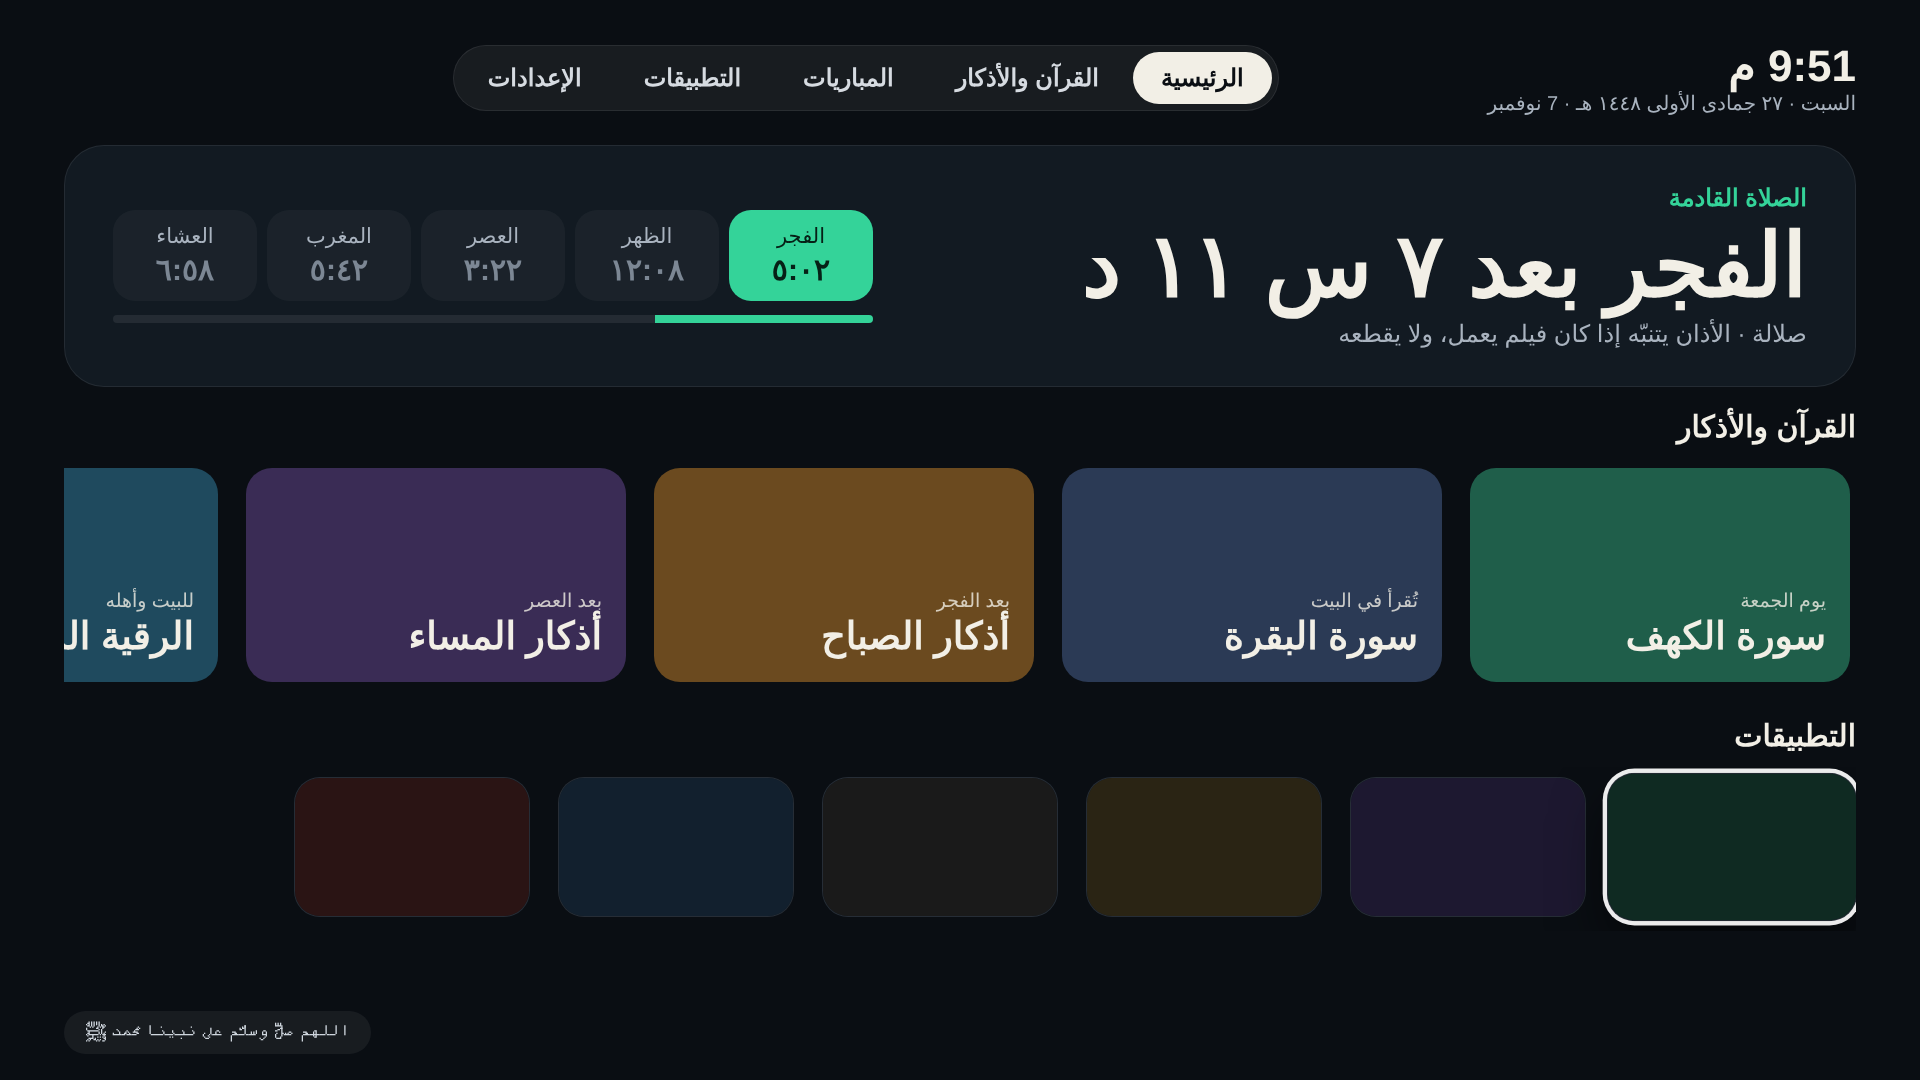
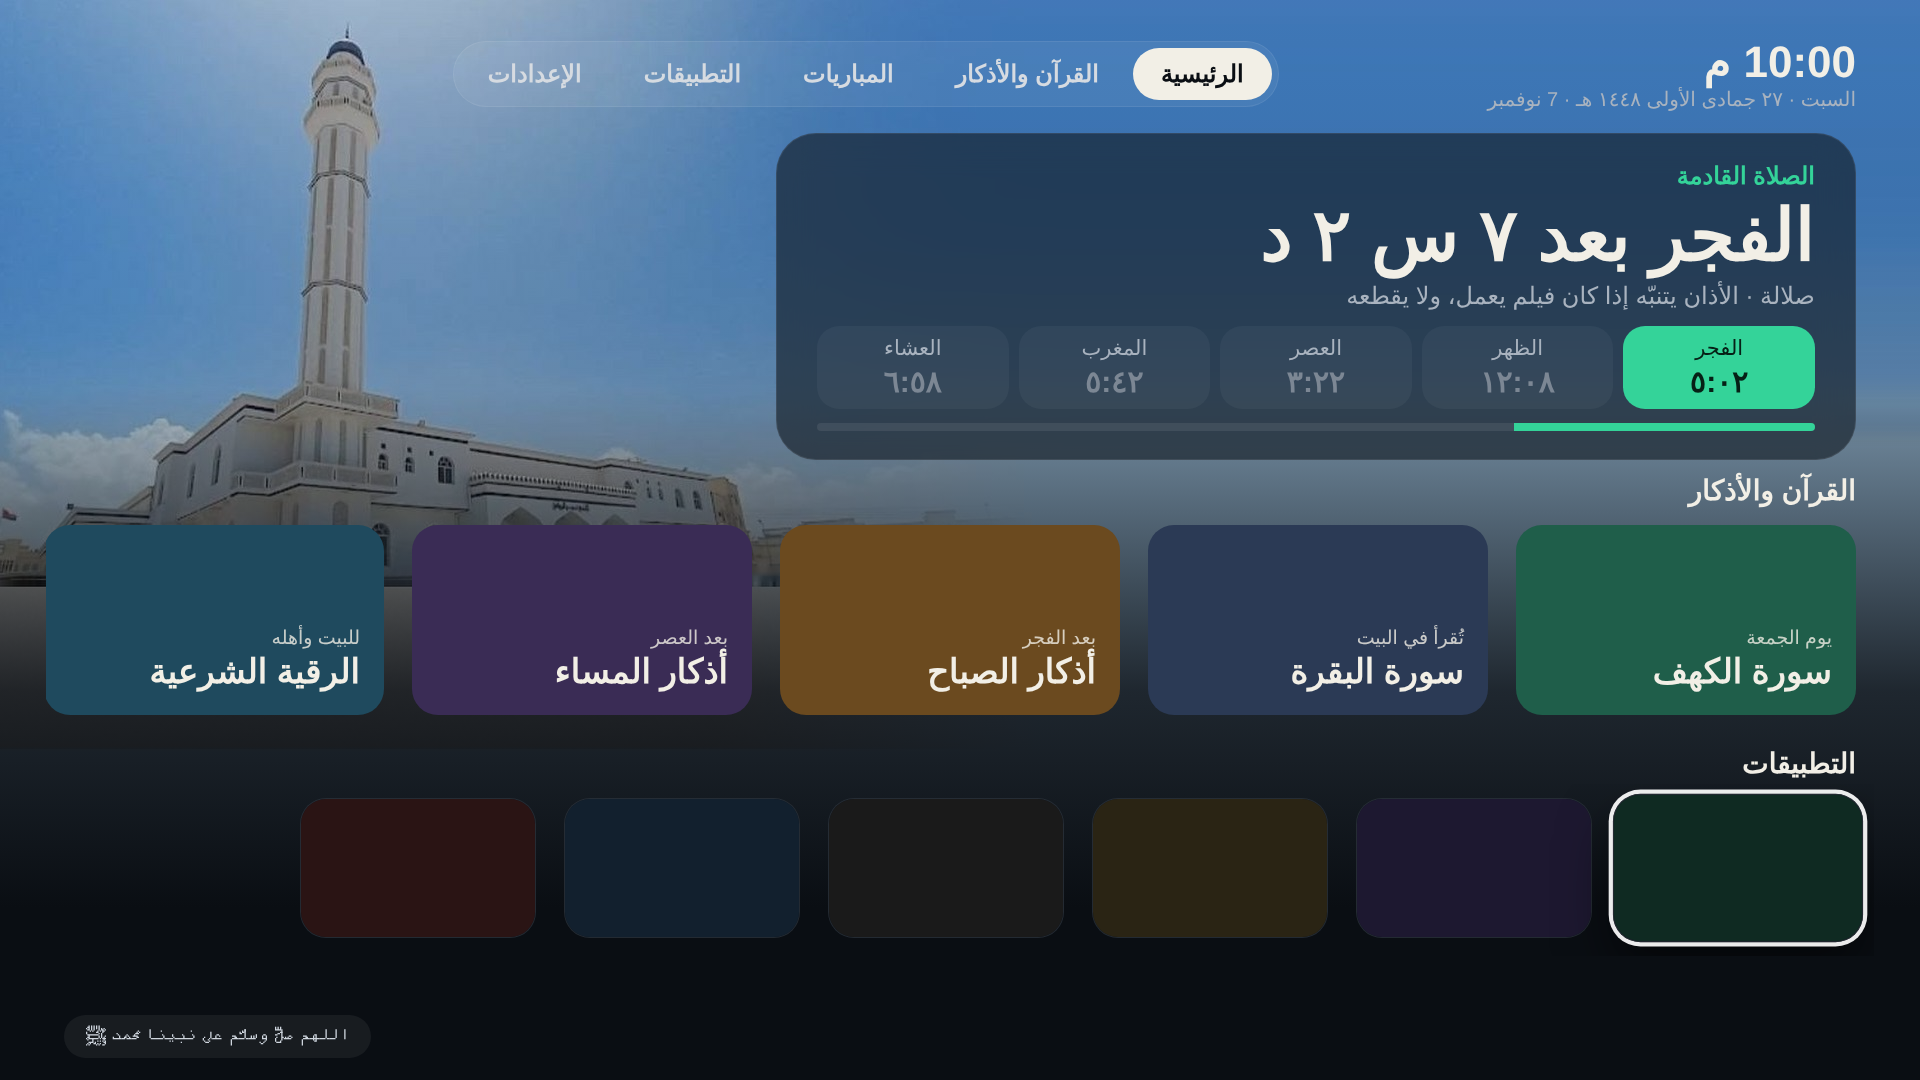
Wallpapers: Omar Al-Rawas mosque (people and cars removed) + noor-tv's three themes; glass prayer card; Friday / white-days line; phone card
Claude-Session: https://claude.ai/code/session_01ARi9ftabyekJLjbacbC3ya

diff --git a/app/src/main/assets/home/index.html b/app/src/main/assets/home/index.html
@@ -8,8 +8,14 @@
 /* The TV home: Apple-TV-like shelves in DriveCast's glass. Built for a 1920×1080 screen and a remote's arrows. */
 :root{--bg:#0a0e13;--card:#121a22;--ink:#f2efe6;--dim:#a9b3bf;--line:rgba(255,255,255,.08);--accent:#34d399;--gold:#f5c96a}
 *{box-sizing:border-box}
-html,body{margin:0;height:100%;background:var(--bg);color:var(--ink);font-family:"Noto Sans Arabic","Noto Naskh Arabic","Roboto",sans-serif;overflow:hidden}
-.screen{width:1920px;height:1080px;padding:40px 64px 44px;display:flex;flex-direction:column;gap:30px;position:relative}
+html{background:var(--bg)}
+html,body{margin:0;height:100%;color:var(--ink);font-family:"Noto Sans Arabic","Noto Naskh Arabic","Roboto",sans-serif;overflow:hidden}
+.screen{width:1920px;height:1080px;padding:36px 64px 40px;display:flex;flex-direction:column;gap:22px;position:relative}
+/* the wallpaper: a light veil over the sky, solid ink under the shelves so text stays readable */
+.wall{position:fixed;inset:0;background-size:cover;background-position:center;z-index:-2;transition:background-image .6s}
+.veil{position:fixed;inset:0;z-index:-1;background:linear-gradient(180deg,rgba(10,14,19,.15) 0%,rgba(10,14,19,.25) 36%,rgba(10,14,19,.86) 64%,#0a0e13 84%)}
+.glass{background:rgba(18,26,34,.62)!important;-webkit-backdrop-filter:blur(18px);backdrop-filter:blur(18px)}
+.line{font-size:20px;color:var(--gold);font-weight:700}
 .top{display:flex;align-items:center;justify-content:space-between;gap:24px}
 .clock b{display:block;font-size:44px;font-variant-numeric:tabular-nums}
 .clock span{font-size:20px;color:var(--dim)}
@@ -20,22 +26,22 @@ html,body{margin:0;height:100%;background:var(--bg);color:var(--ink);font-family
 .f{outline:none;transition:transform .18s ease,box-shadow .18s ease}
 .f:focus{transform:scale(1.06);box-shadow:0 0 0 4px rgba(255,255,255,.92),0 26px 50px rgba(0,0,0,.55);z-index:2}
 .tab.f:focus{transform:none;box-shadow:0 0 0 3px var(--accent)}
-.hero{display:flex;gap:40px;padding:38px 48px;border-radius:40px;background:var(--card);border:1px solid var(--line)}
+.hero{display:flex;flex-direction:column;gap:16px;width:1080px;align-self:flex-start;padding:28px 40px;border-radius:40px;background:var(--card);border:1px solid var(--line)}
 .hero .l{flex:1;display:flex;flex-direction:column;gap:8px}
 .hero small{font-size:24px;color:var(--accent);font-weight:600}
-.hero h1{margin:0;font-size:88px;line-height:1.05}
+.hero h1{margin:0;font-size:72px;line-height:1.05}
 .hero p{margin:0;font-size:24px;color:var(--dim)}
-.times{width:760px;display:flex;flex-direction:column;justify-content:center;gap:14px}
+.times{width:100%;display:flex;flex-direction:column;justify-content:center;gap:14px}
 .times .row{display:grid;grid-template-columns:repeat(5,1fr);gap:10px;text-align:center}
-.times .p{padding:14px 0;border-radius:22px;background:rgba(255,255,255,.04);display:flex;flex-direction:column;gap:4px}
+.times .p{padding:10px 0;border-radius:22px;background:rgba(255,255,255,.04);display:flex;flex-direction:column;gap:4px}
 .times .p span{font-size:21px;color:var(--dim)} .times .p b{font-size:30px;font-variant-numeric:tabular-nums}
 .times .p.past b{color:#7c8794} .times .p.next{background:var(--accent);color:#062016} .times .p.next span{color:#062016}
 .bar{height:8px;border-radius:4px;background:rgba(255,255,255,.08);overflow:hidden}.bar i{display:block;height:100%;background:var(--accent)}
-h2{margin:0 0 14px;font-size:30px}
+h2{margin:0 0 4px;font-size:28px}
 .shelf{display:flex;gap:28px;padding:14px 18px 18px;margin:0 -18px;overflow:hidden}
-.card{flex:none;width:380px;height:214px;border-radius:26px;padding:24px;display:flex;flex-direction:column;justify-content:flex-end;gap:2px;border:0;color:var(--ink);text-align:right;font-family:inherit}
-.card b{font-size:38px} .card span{font-size:19px;opacity:.8}
-.app{flex:none;width:236px;height:140px;border-radius:26px;background:#141c25;border:1px solid var(--line);padding:0;overflow:hidden;display:flex;align-items:center;justify-content:center;font-family:inherit;color:var(--ink)}
+.card{flex:none;width:340px;height:190px;border-radius:26px;padding:24px;display:flex;flex-direction:column;justify-content:flex-end;gap:2px;border:0;color:var(--ink);text-align:right;font-family:inherit}
+.card b{font-size:34px} .card span{font-size:19px;opacity:.8}
+.app{flex:none;width:236px;height:140px;border-radius:26px;background:rgba(20,28,37,.8);border:1px solid var(--line);padding:0;overflow:hidden;display:flex;align-items:center;justify-content:center;font-family:inherit;color:var(--ink)}
 .app img{width:100%;height:100%;object-fit:cover}.app img.icon{width:72px;height:72px;object-fit:contain}
 .app.icon{flex-direction:column;gap:8px;font-size:19px}
 .match{flex:none;width:420px;height:150px;border-radius:26px;background:#141c25;border:1px solid var(--line);padding:18px 22px;display:flex;flex-direction:column;gap:8px;color:var(--ink);font-family:inherit;text-align:right}
@@ -43,12 +49,12 @@ h2{margin:0 0 14px;font-size:30px}
 .match .t img{width:40px;height:40px;object-fit:contain}
 .match .t .s{font-variant-numeric:tabular-nums;font-size:32px}
 .match small{font-size:18px;color:var(--dim)} .match.live small{color:var(--accent)}
-.page{display:none;flex-direction:column;gap:22px;min-height:0}.page.on{display:flex}
-.sal{position:absolute;bottom:26px;left:64px;padding:10px 22px;border-radius:999px;background:rgba(255,255,255,.06);font-size:20px;color:#cfd6de}
+.page{display:none;flex-direction:column;gap:14px;min-height:0}.page.on{display:flex}
+.sal{position:absolute;bottom:22px;left:64px;padding:10px 22px;border-radius:999px;background:rgba(255,255,255,.06);font-size:20px;color:#cfd6de}
 .empty{font-size:22px;color:var(--dim);padding:20px 4px}
 .panel{position:absolute;inset:0;background:rgba(5,8,11,.72);display:none;align-items:center;justify-content:center}
 .panel.on{display:flex}
-.panel .box{width:1100px;padding:48px 56px;border-radius:44px;background:#15221c;border:1px solid rgba(52,211,153,.3);display:flex;flex-direction:column;gap:22px}
+.panel .box{width:1100px;max-height:1000px;overflow:auto;padding:48px 56px;border-radius:44px;background:#15221c;border:1px solid rgba(52,211,153,.3);display:flex;flex-direction:column;gap:22px}
 .panel h3{margin:0;font-size:46px}
 .cities{display:grid;grid-template-columns:repeat(4,1fr);gap:14px}
 .btn{height:72px;border-radius:999px;border:1px solid rgba(255,255,255,.2);background:rgba(255,255,255,.05);color:var(--ink);font-weight:600;font-size:24px;font-family:inherit}
@@ -57,9 +63,10 @@ h2{margin:0 0 14px;font-size:30px}
 </style>
 </head>
 <body>
+<div class="wall" id="wall"></div><div class="veil" id="veil"></div>
 <div class="screen">
   <div class="top">
-    <div class="clock"><b id="time">--:--</b><span id="date"></span></div>
+    <div class="clock"><b id="time">--:--</b><span id="date"></span><div class="line" id="line"></div></div>
     <nav class="tabs" id="tabs">
       <button class="tab f on" data-page="home">الرئيسية</button>
       <button class="tab f" data-page="quran">القرآن والأذكار</button>
@@ -71,7 +78,7 @@ h2{margin:0 0 14px;font-size:30px}
   </div>
 
   <section class="page on" id="p-home">
-    <div class="hero">
+    <div class="hero glass">
       <div class="l"><small>الصلاة القادمة</small><h1 id="next">…</h1><p id="nextSub"></p></div>
       <div class="times"><div class="row" id="times"></div><div class="bar"><i id="prog" style="width:0"></i></div></div>
     </div>
@@ -89,6 +96,8 @@ h2{margin:0 0 14px;font-size:30px}
     <h3>الإعدادات</h3>
     <div class="note">مدينة مواقيت الصلاة:</div>
     <div class="cities" id="cities"></div>
+    <div class="note">الخلفية:</div>
+    <div class="cities" id="walls"></div>
     <div class="note" id="phone"></div>
     <div class="note" id="overlay"></div>
     <div style="display:flex;gap:14px"><button class="btn f" data-act="system">إعدادات التلفزيون</button><button class="btn f" data-act="close">إغلاق</button></div>
@@ -123,7 +132,7 @@ function tick() {
   $('#time').textContent = d.toLocaleTimeString('ar', { hour: 'numeric', minute: '2-digit' });
   let hijri = ''; try { hijri = d.toLocaleDateString('ar-SA-u-ca-islamic-umalqura', { day: 'numeric', month: 'long', year: 'numeric' }); } catch (e) {}
   $('#date').textContent = d.toLocaleDateString('ar', { weekday: 'long' }) + ' · ' + hijri + ' · ' + d.toLocaleDateString('ar', { day: 'numeric', month: 'long' });
-  prayersUi();
+  prayersUi(); dayLine(); applyWall();
 }
 let P = {};
 function loadPrayers() { try { P = JSON.parse(TV.prayers()) || {}; } catch (e) { P = {}; } prayersUi(); weather(); }
@@ -148,8 +157,32 @@ function weather() {
     .then(j => { const c = j.current?.temperature_2m; if (c != null) $('#wx').textContent = (P.city || '') + ' ' + AR(Math.round(c)) + '°'; }).catch(() => {});
 }
 
+
+// ---- wallpapers: Omar Al-Rawas mosque (Salalah), and noor-tv's three (MIT, majedphotos); «أوقات اليوم» follows the time of day
+const WALLS = [['rawas', 'جامع عمر الرواس'], ['awqat', 'أوقات اليوم'], ['zakhrafa', 'الزخرفة'], ['masjid-layl', 'مسجد الليل'], ['none', 'بلا خلفية']];
+function getWall() { try { return localStorage.wall || 'rawas'; } catch (e) { return 'rawas'; } }
+function applyWall() {
+  const w = getWall(), h = new Date().getHours();
+  const f = w === 'none' ? '' : w === 'awqat' ? (h >= 5 && h < 15 ? 'awqat-morning' : h >= 15 && h < 19 ? 'awqat-evening' : 'awqat-night') : w;
+  $('#wall').style.backgroundImage = f ? `url(wall/${f}.jpg)` : 'none';
+  $('#veil').style.display = f ? '' : 'none';
+}
+// the line over the clock (noor-tv): Friday, the white days (13-15 of the hijri month), in gold
+function dayLine() {
+  const d = new Date(); let hd = 0;
+  try { hd = +new Intl.DateTimeFormat('en-u-ca-islamic-umalqura', { day: 'numeric' }).format(d).replace(/\D/g, ''); } catch (e) {}
+  const parts = [];
+  if (d.getDay() === 5) parts.push('جمعة مباركة 🌿');
+  if (hd >= 13 && hd <= 15) parts.push('الأيام البيض 🤍');
+  $('#line').textContent = parts.join(' · ');
+}
+
 // ---- shelves
-function cardsHtml() { return CARDS.map((c, i) => `<button class="card f" style="background:${c.c}" data-yt="${c.v}"><span>${c.s}</span><b>${c.t}</b></button>`).join(''); }
+function cardsHtml() {
+  const u = TV.phoneUrl();
+  return CARDS.map((c, i) => `<button class="card f" style="background:${c.c}" data-yt="${c.v}"><span>${c.s}</span><b>${c.t}</b></button>`).join('')
+    + `<button class="card f glass" data-act="phone"><span>${u ? u.replace('http://', '') : 'على نفس الواي فاي'}</span><b>💌 اكتب أو ارسم من جوالك</b></button>`;
+}
 let APPS = [];
 function appsHtml(n) {
   return APPS.slice(0, n).map(a => a.tv ? `<button class="app f" data-pkg="${a.pkg}" aria-label="${a.label}"><img src="${a.art}" alt=""></button>`
@@ -184,6 +217,7 @@ function show(page) {
 function settings(on) {
   $('#panel').classList.toggle('on', on);
   if (!on) return $('.tab.on')?.focus();
+  $('#walls').innerHTML = WALLS.map(w => `<button class="btn f ${getWall() === w[0] ? 'on' : ''}" data-wall="${w[0]}">${w[1]}</button>`).join('');
   $('#cities').innerHTML = CITIES.map(c => `<button class="btn f ${P.city === c[0] ? 'on' : ''}" data-city="${c[0]}">${c[0]}</button>`).join('');
   const u = TV.phoneUrl();
   $('#phone').textContent = u ? 'صفحة الجوال (اكتب أو ارسم على التلفزيون): ' + u : 'صفحة الجوال تعمل عندما يتصل التلفزيون بالواي فاي';
@@ -200,6 +234,8 @@ document.addEventListener('click', e => {
   if (b.dataset.act === 'settings') return settings(true);
   if (b.dataset.act === 'close') return settings(false);
   if (b.dataset.act === 'system') return TV.settings();
+  if (b.dataset.act === 'phone') return settings(true);
+  if (b.dataset.wall) { try { localStorage.wall = b.dataset.wall; } catch (x) {} applyWall(); return settings(true); }
   if (b.dataset.yt) return TV.youtube(b.dataset.yt);
   if (b.dataset.pkg) { let use = {}; try { use = JSON.parse(localStorage.use || '{}'); } catch (x) {} use[b.dataset.pkg] = (use[b.dataset.pkg] || 0) + 1; try { localStorage.use = JSON.stringify(use); } catch (x) {} return TV.open(b.dataset.pkg); }
   if (b.dataset.city) { const c = CITIES.find(x => x[0] === b.dataset.city); TV.setCity(String(c[1]), String(c[2]), c[3], c[0]); setTimeout(() => { loadPrayers(); settings(true); }, 1500); }

diff --git a/skills/drivecast-tv/SKILL.md b/skills/drivecast-tv/SKILL.md
@@ -58,7 +58,7 @@ description: يركّب على تلفزيون أندرويد تي في أو قو
 - **الأذان:** لو الشاشة الرئيسية قدامه وما في شي شغال، يأذّن ويطلع شريط. لو فيلم أو قناة شغالة، الشريط بس. الفجر شريط بس.
 - **كل 45 دقيقة:** سطر «صلّ على النبي ﷺ»، ويوم الجمعة قبل المغرب «لا تنسى سورة الكهف».
 - **صفحة الجوال** `http://<ip>:8080`: يكتب ويطلع كلامه وسط الشاشة، أو يرسم بإصبعه.
-- **الشاشة:** الصلاة القادمة والعد التنازلي، القرآن والأذكار (يوتيوب)، مباريات اليوم من DriveCast، والتطبيقات مرتبة حسب استخدامه. زر القائمة بالريموت يفتح الإعدادات.
+- **الشاشة:** الصلاة القادمة والعد التنازلي، القرآن والأذكار (يوتيوب)، مباريات اليوم من DriveCast، والتطبيقات مرتبة حسب استخدامه. زر القائمة بالريموت يفتح الإعدادات (المدينة والخلفية: جامع عمر الرواس، أوقات اليوم، الزخرفة، مسجد الليل، أو بلا خلفية). وفوق الساعة «جمعة مباركة» و«الأيام البيض».
 
 ### 9. سكّر وعطه التقرير
 - قل له يطفي «تصحيح الأخطاء عبر الشبكة» من خيارات المطوّر (أو `adb -s <ip>:5555 shell settings put global adb_enabled 0` بعد إذنه).

diff --git a/README.md b/README.md
@@ -20,6 +20,8 @@
 - 📱 **التطبيقات** مرتبة حسب استخدامك، بصورها الكبيرة
 - 💌 **صفحة الجوال** `http://<آي بي التلفزيون>:8080`: اكتب كلمة أو ارسم بإصبعك وتطلع على الشاشة
 - ﷺ **كل 45 دقيقة** سطر يذكّرك بالصلاة على النبي، ويوم الجمعة بسورة الكهف
+- 🌿 **فوق الساعة:** التاريخ الهجري، «جمعة مباركة» يوم الجمعة، و«الأيام البيض» بالذهبي
+- 🕌 **الخلفية:** جامع عمر الرواس بصلالة، أو أشكال نور تي في الثلاثة (الزخرفة، مسجد الليل، أوقات اليوم اللي تتغيّر مع الصبح والعصر والليل)، تختارها من «الإعدادات»
 - 🧹 **بلا إعلانات:** يعطّل تطبيقات الشركة اللي تعرض الإعلانات (**تعطيل مو حذف**، وترجع بأمر واحد)
 
 ## يشتغل على شنو؟
